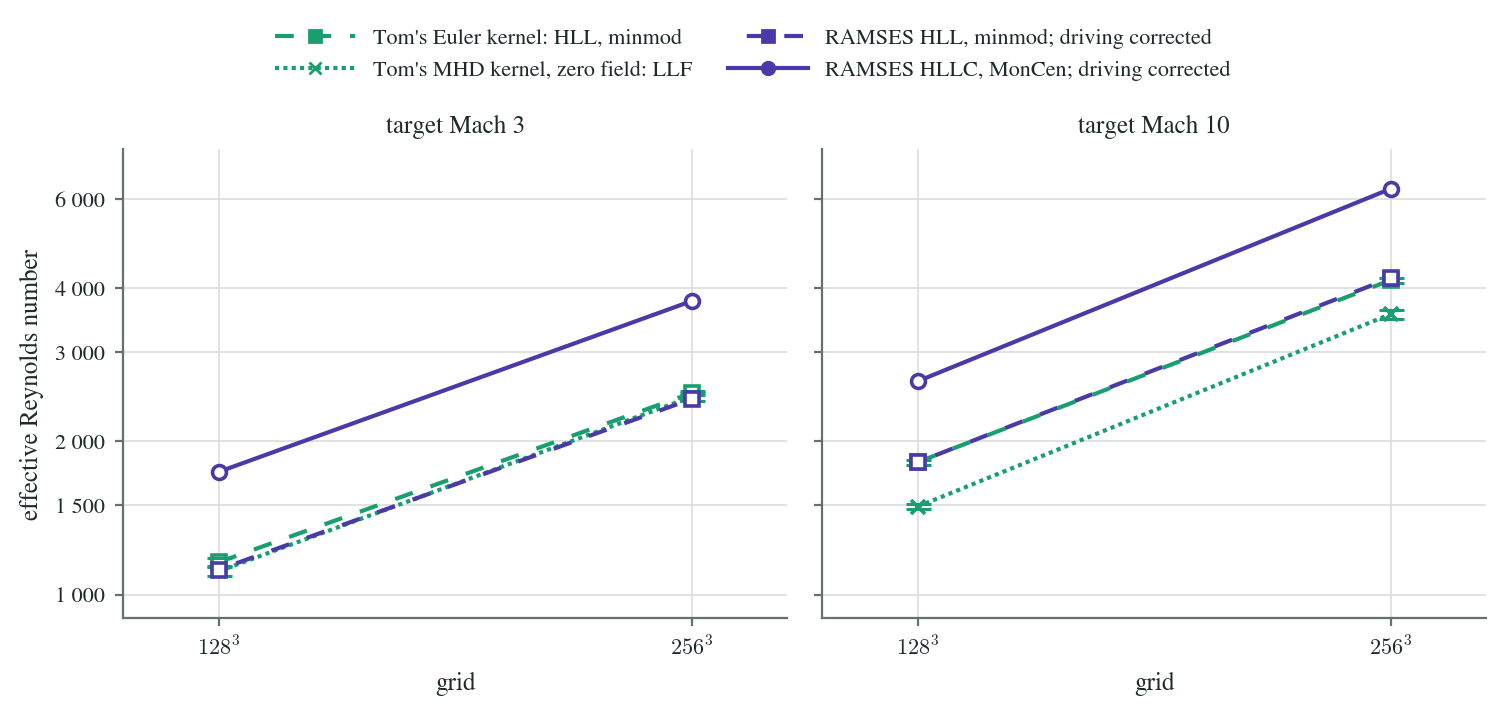
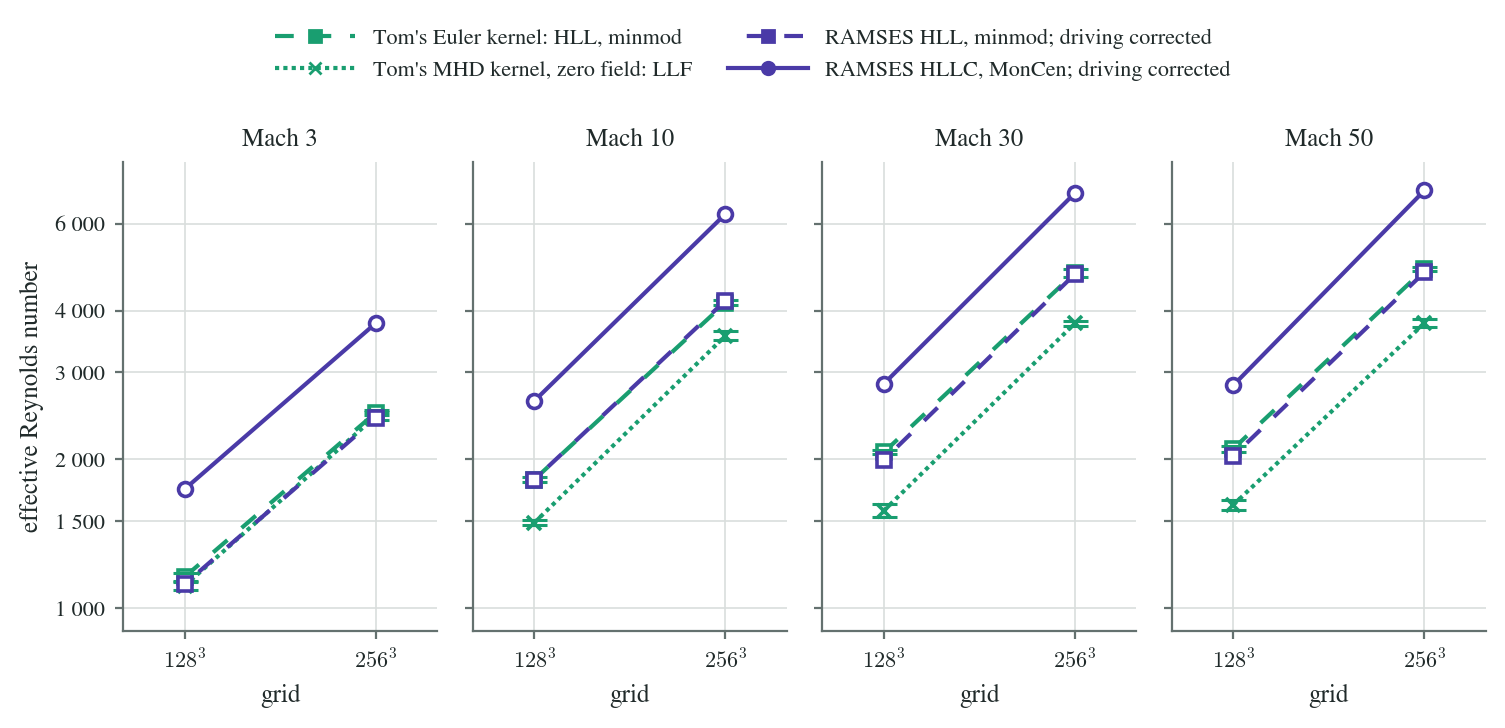
MHD notebook: turbulence at Mach 30 and 50
The Turbulence page now covers four Mach numbers (60 runs), the reverse
test of RAMSES's projection, and the density floor at high Mach number.

diff --git a/mhd/turbulence.html b/mhd/turbulence.html
@@ -6,21 +6,23 @@
 <header class="masthead"><a class="brand" href="../research.html"><span class="brand-mark">∿</span><span>MHD <strong>FIELD NOTES</strong></span></a><div class="masthead-meta"><span class="live-dot"></span>RESEARCH NOTEBOOK <span class="separator">/</span> DRIVEN TURBULENCE</div></header>
 <nav class="test-nav" aria-label="Pages"><a href="../research.html"><span>←</span>Research</a><a href="index.html"><span>01</span>Paper figures</a><a href="sweep-plan.html"><span>02</span>Sweep status</a><a href="turbulence.html" aria-current="page"><span>03</span>Turbulence</a><a href="orszag-tang.html"><span>04</span>Orszag–Tang</a><a href="hydro-decay.html"><span>05</span>Hydro decay</a><a href="isothermal-decay.html"><span>06</span>Prepared decay</a><a href="acoustic-wave.html"><span>07</span>Acoustic check</a><a href="entropy-wave.html"><span>08</span>Entropy wave</a></nav>
 <main id="main">
-<div class="page-heading"><div><div class="eyebrow"><span>03 · Driven turbulence</span><span class="badge">32 runs</span></div>
+<div class="page-heading"><div><div class="eyebrow"><span>03 · Driven turbulence</span><span class="badge">60 runs</span></div>
 <h1>Driven turbulence: the pilot</h1>
 <p>Hydrodynamic turbulence in a periodic box, stirred until it is statistically steady, in Tom Abel's GPU kernels and in RAMSES with one definition of the
-stirring. A first look: two Mach numbers, two grids. It also found a fault in RAMSES's driving, which is why RAMSES appears twice.</p></div>
+stirring. A first look: 4 Mach numbers, 2 grids. It also found a fault in RAMSES's driving, which is why RAMSES appears twice at the lower two
+Mach numbers.</p></div>
 <a class="method-link" href="files/sherlock_turb/README.md">Set-up and tests <span>↗</span></a></div>
-<div class="chips"><span class="chip">32 runs</span><span class="chip">Mach 3 and 10</span><span class="chip">128³ and 256³</span><span class="chip">6 set-ups in 2 codes</span><span class="chip">10 driving times each</span><span class="chip">solenoidal driving</span></div>
+<div class="chips"><span class="chip">60 runs</span><span class="chip">Mach 3, 10, 30 and 50</span><span class="chip">128³ and 256³</span><span class="chip">7 set-ups in 2 codes</span><span class="chip">10 driving times each</span><span class="chip">solenoidal driving</span></div>
 <div class="card"><h3>How to read this page</h3>
-<p>Units: box length 1, mean density 1, sound speed 1. The gas is nearly isothermal (γ − 1 = 10⁻⁵, no cooling), so the total energy rises at exactly the rate the
+<p>Units: box length 1, mean density 1, sound speed 1. The gas is nearly isothermal (γ − 1 = 10⁻⁵, and 10⁻⁶ at Mach 30 and 50; no cooling), so the total energy rises at exactly the rate the
 driving puts it in: that slope is the power, and in a steady state the dissipation rate. The driving is a random acceleration on the largest scales (1 &lt; k &lt; 3) with
 memory time T = L/(2 M c<sub>s</sub>), scaled to the same strength at every moment in both codes. The strength was found once for each target Mach number and is used
 unchanged by every run, so a run is named by its target and the Mach number it reaches is a result.</p>
 <p>Colour is the code: green Tom's kernels, purple RAMSES. Line style is the set-up. <strong>The paler purple is RAMSES as released</strong>: its projection of the driving
 takes the direction of a wave vector from the absolute values of its components, so a fifth of the power of its "solenoidal" force is compressive (measured from the force
-fields it saves). The full purple has those three lines corrected and is the RAMSES to compare with Tom's kernels. His Float16 Euler kernel is not here: it stops in its first
+fields it saves). The full purple has those three lines corrected and is the RAMSES to compare with Tom's kernels; at Mach 30 and 50 only the corrected RAMSES ran.
+The green diamonds of figure 2 are the reverse test: Tom's Euler kernel driven with RAMSES's released projection. His Float16 Euler kernel is not here: it stops in its first
 steps, because it stores the energy flux in half precision and this gas has an internal energy of 10⁵.</p>
-<p>Density images use the notebook's map for gas quantities (teal, dark where the density is low), as on the other pages.</p></div><article class="card paper-fig" id="turb-mach-time"><div class="fig-head"><span class="fig-no">1</span><h3>Steady state</h3></div><div class="fig-pair"><figure class="ours" style="flex-basis:604px;max-width:756px"><a class="image-link" href="media/turb/turb-mach-time.png?v=1791703203"><img src="media/turb/turb-mach-time.png?v=1791703203" alt="Steady state" loading="lazy"></a></figure></div><p>Rms Mach number (volume-weighted, with the sound speed of the gas at that time) against time in driving times T. Averages on this page are taken from 2 T on; the check is that the second half of that window agrees with the first.</p><p class="finding"><strong>In these runs:</strong> All 32 runs pass the check: the mean Mach number of the second half of the averaging window differs from the first half&#x27;s by 0.1 % to 2.6 %, and the Mach number wanders by 1.7 % to 4.3 % about its mean. The paler curves (RAMSES as released) run lower from the start.</p></article><article class="card paper-fig" id="turb-projection-gap"><div class="fig-head"><span class="fig-no">2</span><h3>What RAMSES&#x27;s projection does</h3></div><div class="fig-pair"><figure class="ours" style="flex-basis:602px;max-width:753px"><a class="image-link" href="media/turb/turb-projection-gap.png?v=1791703203"><img src="media/turb/turb-projection-gap.png?v=1791703203" alt="What RAMSES&#x27;s projection does" loading="lazy"></a></figure></div><p>Time-averaged Mach number and power taken up from the driving (the slope of the total energy), each relative to Tom&#x27;s Euler kernel at the same Mach number and grid (mean of its two seeds). Every run uses the same driving strength.</p><p class="finding"><strong>In these runs:</strong> RAMSES as released sits −5.5 % to −2.3 % in Mach number and −19 % to −13 % in power against Tom&#x27;s Euler kernel. With the projection corrected it is within −0.7 % to +0.6 % and −3 % to +5 %; two seeds of the Euler kernel differ by 2 % to 5 % in power. Tom&#x27;s MHD kernel with zero field: −1.0 % to +1.3 % and −3 % to +4 %.</p></article><article class="card paper-fig" id="turb-spectra"><div class="fig-head"><span class="fig-no">3</span><h3>Velocity spectra</h3></div><div class="fig-pair"><figure class="ours" style="flex-basis:600px;max-width:750px"><a class="image-link" href="media/turb/turb-spectra.png?v=1791703204"><img src="media/turb/turb-spectra.png?v=1791703204" alt="Velocity spectra" loading="lazy"></a></figure></div><p>Time-averaged velocity power spectra, multiplied by k² (flat for a field of shocks). Runs that share one driving only; Tom&#x27;s kernels are the mean of two seeds. The two set-ups that run the same scheme in two codes are dashed with shifted dashes: where they coincide the line alternates green and purple.</p><p class="finding"><strong>In these runs:</strong> On 256³, Mach 3: the two HLL codes differ by at most 2 % at any k ≥ 4; at k = 64 RAMSES HLLC holds 2.2 times and the MHD kernel (LLF) 0.51 times the power of its HLL counterpart; Mach 10: the two HLL codes differ by at most 2 % at any k ≥ 4; at k = 64 RAMSES HLLC holds 1.9 times and the MHD kernel (LLF) 0.48 times the power of its HLL counterpart.</p></article><article class="card paper-fig" id="turb-compressive-share"><div class="fig-head"><span class="fig-no">4</span><h3>Compressive share, scale by scale</h3></div><div class="fig-pair"><figure class="ours" style="flex-basis:599px;max-width:749px"><a class="image-link" href="media/turb/turb-compressive-share.png?v=1791703204"><img src="media/turb/turb-compressive-share.png?v=1791703204" alt="Compressive share, scale by scale" loading="lazy"></a></figure></div><p>The part of the velocity power at each wavenumber that is compressive (along k). The driving acts at 1 &lt; k &lt; 3 and is meant to be solenoidal.</p><p class="finding"><strong>In these runs:</strong> The released projection shows only where the driving acts: Mach 3: at k = 2, 0.13 and 0.13 as released against 0.11 and 0.11 corrected and 0.11 for Tom&#x27;s Euler kernel; Mach 10: at k = 2, 0.17 and 0.16 as released against 0.12 and 0.11 corrected and 0.13 for Tom&#x27;s Euler kernel. Past the driven band the released and corrected curves of each solver join, and what separates the curves is the solver.</p></article><article class="card paper-fig" id="turb-density-pdf"><div class="fig-head"><span class="fig-no">5</span><h3>Density distribution</h3></div><div class="fig-pair"><figure class="ours" style="flex-basis:600px;max-width:751px"><a class="image-link" href="media/turb/turb-density-pdf.png?v=1791703205"><img src="media/turb/turb-density-pdf.png?v=1791703205" alt="Density distribution" loading="lazy"></a></figure></div><p>Time-averaged distribution of s = ln(ρ/⟨ρ⟩) by volume on the finer grid.</p><p class="finding"><strong>In these runs:</strong> The width σ of the distribution of s gives b = √(exp σ² − 1)/Mach, about 1/3 for solenoidal driving in the literature. On 256³, Mach 3: b = 0.43 (Euler kernel), 0.42 (MHD kernel), 0.41 (RAMSES HLL), 0.41 (RAMSES HLLC), 0.45 (RAMSES HLL, released), 0.45 (RAMSES HLLC, released); Mach 10: b = 0.55 (Euler kernel), 0.50 (MHD kernel), 0.53 (RAMSES HLL), 0.46 (RAMSES HLLC), 0.57 (RAMSES HLL, released), 0.51 (RAMSES HLLC, released). From 128³ to 256³: Mach 3: 0.44 → 0.43 (Euler kernel), 0.41 → 0.41 (RAMSES HLLC); Mach 10: 0.63 → 0.55 (Euler kernel), 0.54 → 0.46 (RAMSES HLLC). Where it still moves with resolution it is not converged.</p></article><article class="card paper-fig" id="turb-dissipation"><div class="fig-head"><span class="fig-no">6</span><h3>Numerical dissipation</h3></div><div class="fig-pair"><figure class="ours" style="flex-basis:601px;max-width:752px"><a class="image-link" href="media/turb/turb-dissipation.png?v=1791703205"><img src="media/turb/turb-dissipation.png?v=1791703205" alt="Numerical dissipation" loading="lazy"></a></figure></div><p>Effective Reynolds number v L/ν, with ν the viscosity that would turn the measured power into heat through the velocity gradients the grid holds: ν = power / (⟨ρ|∇×v|²⟩ + 4/3 ⟨ρ(∇·v)²⟩). It grows with resolution; on one grid a larger value means sharper gradients for the same dissipation. Short bars: the single seeds.</p><p class="finding"><strong>In these runs:</strong> From 128³ to 256³. Mach 3: Euler kernel 1158 → 2489, RAMSES HLL 1119 → 2423, RAMSES HLLC 1742 → 3776 (1.6 times HLL), MHD kernel 1111 → 2448 (−2 % against the Euler kernel); Mach 10: Euler kernel 1821 → 4151, RAMSES HLL 1820 → 4192, RAMSES HLLC 2626 → 6278 (1.5 times HLL), MHD kernel 1489 → 3558 (−14 % against the Euler kernel).</p></article><article class="card paper-fig" id="turb-slices"><div class="fig-head"><span class="fig-no">7</span><h3>What it looks like</h3></div><div class="fig-pair"><figure class="ours" style="flex-basis:536px;max-width:671px"><a class="image-link" href="media/turb/turb-slices.png?v=1791703205"><img src="media/turb/turb-slices.png?v=1791703205" alt="What it looks like" loading="lazy"></a></figure></div><p>Density in the midplane at the end of each run (time 10 T) on the finer grid; light is dense, and each row has its own colour scale. The runs of a row have the same statistics of the driving but not the same random pattern (two codes, two random number generators; Tom&#x27;s two kernels share theirs, and so do RAMSES&#x27;s two solvers), so structures are not expected to match from code to code.</p></article><article class="card paper-fig" id="turb-runs"><div class="fig-head"><span class="fig-no">8</span><h3>Every run</h3></div><p>Averages over time ≥ 2 T. Power in units of ρ c<sub>s</sub>³/L. Cell updates per second: the whole GPU for Tom's kernels (single precision), one core for RAMSES (double precision).</p><div class="table-scroll"><table class="metrics-table sweep-text paper-table"><thead><tr><th>run</th><th>Mach</th><th>second half vs first</th><th>mass-weighted Mach</th><th>σ of ln ρ</th><th>power</th><th>effective Re</th><th>sound speed at end</th><th>lowest density</th><th>cell updates / s</th></tr></thead><tbody><tr><td>gpu-glm-M3-N128-s1</td><td>3.22</td><td>+1.1 %</td><td>2.96</td><td>1.044</td><td>32.7</td><td>1132</td><td>1.0003</td><td>3.0e-03</td><td>1.39e+09</td></tr><tr><td>gpu-glm-M3-N128-s2</td><td>3.18</td><td>−1.0 %</td><td>2.94</td><td>1.051</td><td>34.2</td><td>1090</td><td>1.0003</td><td>4.7e-03</td><td>1.38e+09</td></tr><tr><td>gpu-hydro-M3-N128-s1</td><td>3.18</td><td>−0.8 %</td><td>2.92</td><td>1.031</td><td>32.7</td><td>1179</td><td>1.0003</td><td>5.7e-03</td><td>3.53e+09</td></tr><tr><td>gpu-hydro-M3-N128-s2</td><td>3.17</td><td>−1.2 %</td><td>2.93</td><td>1.040</td><td>34.5</td><td>1136</td><td>1.0003</td><td>4.6e-03</td><td>3.53e+09</td></tr><tr><td>ramses-best-M3-N128-s1</td><td>3.07</td><td>−2.0 %</td><td>2.82</td><td>1.030</td><td>28.8</td><td>1767</td><td>1.0002</td><td>7.1e-03</td><td>4.59e+05 per core</td></tr><tr><td>ramses-matched-M3-N128-s1</td><td>3.07</td><td>+0.6 %</td><td>2.78</td><td>1.030</td><td>29.4</td><td>1150</td><td>1.0002</td><td>1.0e-02</td><td>3.78e+05 per core</td></tr><tr><td>ramsesfix-best-M3-N128-s1</td><td>3.19</td><td>+0.7 %</td><td>3.00</td><td>1.006</td><td>35.3</td><td>1742</td><td>1.0003</td><td>7.0e-03</td><td>4.99e+05 per core</td></tr><tr><td>ramsesfix-matched-M3-N128-s1</td><td>3.16</td><td>+1.1 %</td><td>2.92</td><td>1.025</td><td>34.5</td><td>1119</td><td>1.0003</td><td>5.9e-03</td><td>4.01e+05 per core</td></tr><tr><td>gpu-glm-M3-N256-s1</td><td>3.24</td><td>−1.5 %</td><td>2.98</td><td>1.024</td><td>32.9</td><td>2494</td><td>1.0003</td><td>4.5e-03</td><td>1.43e+09</td></tr><tr><td>gpu-glm-M3-N256-s2</td><td>3.21</td><td>−0.8 %</td><td>2.96</td><td>1.028</td><td>34.3</td><td>2401</td><td>1.0003</td><td>4.4e-03</td><td>1.43e+09</td></tr><tr><td>gpu-hydro-M3-N256-s1</td><td>3.24</td><td>−0.7 %</td><td>2.99</td><td>1.030</td><td>33.4</td><td>2513</td><td>1.0003</td><td>4.7e-03</td><td>4.30e+09</td></tr><tr><td>gpu-hydro-M3-N256-s2</td><td>3.25</td><td>+0.4 %</td><td>2.99</td><td>1.043</td><td>34.2</td><td>2465</td><td>1.0003</td><td>5.8e-03</td><td>4.32e+09</td></tr><tr><td>ramses-best-M3-N256-s1</td><td>3.10</td><td>−0.8 %</td><td>2.84</td><td>1.036</td><td>29.3</td><td>3816</td><td>1.0002</td><td>6.1e-03</td><td>4.46e+05 per core</td></tr><tr><td>ramses-matched-M3-N256-s1</td><td>3.07</td><td>+0.3 %</td><td>2.80</td><td>1.026</td><td>28.8</td><td>2414</td><td>1.0002</td><td>6.5e-03</td><td>5.71e+05 per core</td></tr><tr><td>ramsesfix-best-M3-N256-s1</td><td>3.23</td><td>+0.4 %</td><td>3.00</td><td>1.004</td><td>35.6</td><td>3776</td><td>1.0003</td><td>6.6e-03</td><td>4.41e+05 per core</td></tr><tr><td>ramsesfix-matched-M3-N256-s1</td><td>3.24</td><td>+0.8 %</td><td>3.00</td><td>1.011</td><td>35.3</td><td>2423</td><td>1.0003</td><td>8.7e-03</td><td>3.53e+05 per core</td></tr><tr><td>gpu-glm-M10-N128-s1</td><td>10.11</td><td>+2.1 %</td><td>9.68</td><td>1.996</td><td>1.2e+03</td><td>1506</td><td>1.0028</td><td>1.0e-06</td><td>1.39e+09</td></tr><tr><td>gpu-glm-M10-N128-s2</td><td>10.12</td><td>−1.5 %</td><td>9.77</td><td>1.942</td><td>1.26e+03</td><td>1471</td><td>1.0029</td><td>3.3e-06</td><td>1.39e+09</td></tr><tr><td>gpu-hydro-M10-N128-s1</td><td>10.19</td><td>−0.7 %</td><td>9.61</td><td>1.944</td><td>1.2e+03</td><td>1840</td><td>1.0028</td><td>2.1e-06</td><td>3.56e+09</td></tr><tr><td>gpu-hydro-M10-N128-s2</td><td>10.14</td><td>+0.1 %</td><td>9.56</td><td>1.929</td><td>1.24e+03</td><td>1801</td><td>1.0028</td><td>8.5e-06</td><td>3.55e+09</td></tr><tr><td>ramses-best-M10-N128-s1</td><td>9.84</td><td>−2.4 %</td><td>9.19</td><td>1.859</td><td>1.03e+03</td><td>2690</td><td>1.0024</td><td>1.2e-05</td><td>3.77e+05 per core</td></tr><tr><td>ramses-matched-M10-N128-s1</td><td>9.93</td><td>−2.2 %</td><td>9.09</td><td>1.927</td><td>1.02e+03</td><td>1837</td><td>1.0024</td><td>6.8e-06</td><td>4.28e+05 per core</td></tr><tr><td>ramsesfix-best-M10-N128-s1</td><td>10.10</td><td>+2.0 %</td><td>9.66</td><td>1.853</td><td>1.23e+03</td><td>2626</td><td>1.0028</td><td>1.7e-05</td><td>4.21e+05 per core</td></tr><tr><td>ramsesfix-matched-M10-N128-s1</td><td>10.10</td><td>+1.7 %</td><td>9.65</td><td>1.894</td><td>1.21e+03</td><td>1820</td><td>1.0028</td><td>1.5e-06</td><td>6.05e+05 per core</td></tr><tr><td>gpu-glm-M10-N256-s1</td><td>10.12</td><td>+1.6 %</td><td>9.71</td><td>1.839</td><td>1.21e+03</td><td>3633</td><td>1.0028</td><td>2.4e-06</td><td>1.43e+09</td></tr><tr><td>gpu-glm-M10-N256-s2</td><td>10.09</td><td>−0.2 %</td><td>9.61</td><td>1.784</td><td>1.25e+03</td><td>3484</td><td>1.0029</td><td>5.7e-06</td><td>1.44e+09</td></tr><tr><td>gpu-hydro-M10-N256-s1</td><td>10.25</td><td>+0.2 %</td><td>9.76</td><td>1.886</td><td>1.2e+03</td><td>4200</td><td>1.0028</td><td>1.1e-05</td><td>4.31e+09</td></tr><tr><td>gpu-hydro-M10-N256-s2</td><td>10.11</td><td>−2.4 %</td><td>9.51</td><td>1.848</td><td>1.24e+03</td><td>4101</td><td>1.0028</td><td>1.2e-05</td><td>4.31e+09</td></tr><tr><td>ramses-best-M10-N256-s1</td><td>9.75</td><td>−2.6 %</td><td>9.02</td><td>1.802</td><td>992</td><td>6199</td><td>1.0023</td><td>2.7e-05</td><td>5.73e+05 per core</td></tr><tr><td>ramses-matched-M10-N256-s1</td><td>9.83</td><td>−2.3 %</td><td>9.11</td><td>1.865</td><td>1.03e+03</td><td>4203</td><td>1.0024</td><td>2.5e-05</td><td>3.90e+05 per core</td></tr><tr><td>ramsesfix-best-M10-N256-s1</td><td>10.23</td><td>+1.6 %</td><td>9.68</td><td>1.774</td><td>1.25e+03</td><td>6278</td><td>1.0029</td><td>7.3e-06</td><td>5.27e+05 per core</td></tr><tr><td>ramsesfix-matched-M10-N256-s1</td><td>10.20</td><td>+2.5 %</td><td>9.71</td><td>1.843</td><td>1.19e+03</td><td>4192</td><td>1.0027</td><td>1.8e-05</td><td>4.39e+05 per core</td></tr></tbody></table></div></article></main>
-<footer><span>Drawn by scripts/turb_figures.py from turb_results/ (copied from Sherlock; sherlock_turb/README.md).</span><span>Built 2026-10-11 00:49</span></footer>
+<p>Density images use the notebook's map for gas quantities (teal, dark where the density is low), as on the other pages.</p></div><article class="card paper-fig" id="turb-mach-time"><div class="fig-head"><span class="fig-no">1</span><h3>Steady state</h3></div><div class="fig-pair"><figure class="ours" style="flex-basis:596px;max-width:745px"><a class="image-link" href="media/turb/turb-mach-time.png?v=1791769688"><img src="media/turb/turb-mach-time.png?v=1791769688" alt="Steady state" loading="lazy"></a></figure></div><p>Rms Mach number (volume-weighted, with the sound speed of the gas at that time) against time in driving times T. Averages on this page are taken from 2 T on; the check is that the second half of that window agrees with the first.</p><p class="finding"><strong>In these runs:</strong> All 60 runs pass the check: the mean Mach number of the second half of the averaging window differs from the first half&#x27;s by 0.0 % to 4.8 %, and the Mach number wanders by 1.6 % to 4.3 % about its mean. The paler curves (RAMSES as released) run lower from the start.</p></article><article class="card paper-fig" id="turb-projection-gap"><div class="fig-head"><span class="fig-no">2</span><h3>What RAMSES&#x27;s projection does</h3></div><div class="fig-pair"><figure class="ours" style="flex-basis:602px;max-width:753px"><a class="image-link" href="media/turb/turb-projection-gap.png?v=1791769688"><img src="media/turb/turb-projection-gap.png?v=1791769688" alt="What RAMSES&#x27;s projection does" loading="lazy"></a></figure></div><p>Time-averaged Mach number and power taken up from the driving (the slope of the total energy), each relative to Tom&#x27;s Euler kernel at the same Mach number and grid (mean of its two seeds). Every run of a Mach number uses the same driving strength.</p><p class="finding"><strong>In these runs:</strong> RAMSES as released sits −5.5 % to −2.3 % in Mach number and −19 % to −13 % in power against Tom&#x27;s Euler kernel. With the projection corrected it is within −2.2 % to +0.6 % and −3 % to +7 %; two seeds of the Euler kernel differ by 2 % to 9 % in power. Tom&#x27;s MHD kernel with zero field: −3.6 % to +1.3 % and −4 % to +4 %. The reverse test (diamonds): Tom&#x27;s Euler kernel driven with RAMSES&#x27;s released projection sits −4.3 % to −2.7 % and −19 % to −9 %, where released RAMSES sits. So the gap is the projection, not the solver.</p></article><article class="card paper-fig" id="turb-spectra"><div class="fig-head"><span class="fig-no">3</span><h3>Velocity spectra</h3></div><div class="fig-pair"><figure class="ours" style="flex-basis:600px;max-width:750px"><a class="image-link" href="media/turb/turb-spectra.png?v=1791769689"><img src="media/turb/turb-spectra.png?v=1791769689" alt="Velocity spectra" loading="lazy"></a></figure></div><p>Time-averaged velocity power spectra, multiplied by k² (flat for a field of shocks). Runs that share one driving only; Tom&#x27;s kernels are the mean of two seeds. The two set-ups that run the same scheme in two codes are dashed with shifted dashes: where they coincide the line alternates green and purple.</p><p class="finding"><strong>In these runs:</strong> On 256³, Mach 3: the two HLL codes differ by at most 2 % at any k ≥ 4; at k = 64 RAMSES HLLC holds 2.2 times and the MHD kernel (LLF) 0.51 times the power of its HLL counterpart; Mach 10: the two HLL codes differ by at most 2 % at any k ≥ 4; at k = 64 RAMSES HLLC holds 1.9 times and the MHD kernel (LLF) 0.48 times the power of its HLL counterpart; Mach 30: the two HLL codes differ by at most 5 % at any k ≥ 4; at k = 64 RAMSES HLLC holds 1.8 times and the MHD kernel (LLF) 0.46 times the power of its HLL counterpart; Mach 50: the two HLL codes differ by at most 5 % at any k ≥ 4; at k = 64 RAMSES HLLC holds 1.8 times and the MHD kernel (LLF) 0.46 times the power of its HLL counterpart.</p></article><article class="card paper-fig" id="turb-compressive-share"><div class="fig-head"><span class="fig-no">4</span><h3>Compressive share, scale by scale</h3></div><div class="fig-pair"><figure class="ours" style="flex-basis:599px;max-width:749px"><a class="image-link" href="media/turb/turb-compressive-share.png?v=1791769690"><img src="media/turb/turb-compressive-share.png?v=1791769690" alt="Compressive share, scale by scale" loading="lazy"></a></figure></div><p>The part of the velocity power at each wavenumber that is compressive (along k). The driving acts at 1 &lt; k &lt; 3 and is meant to be solenoidal.</p><p class="finding"><strong>In these runs:</strong> The released projection shows only where the driving acts: Mach 3: at k = 2, 0.13 and 0.13 as released against 0.11 and 0.11 corrected and 0.11 for Tom&#x27;s Euler kernel; Mach 10: at k = 2, 0.17 and 0.16 as released against 0.12 and 0.11 corrected and 0.13 for Tom&#x27;s Euler kernel. Past the driven band the released and corrected curves of each solver join, and what separates the curves is the solver.</p></article><article class="card paper-fig" id="turb-density-pdf"><div class="fig-head"><span class="fig-no">5</span><h3>Density distribution</h3></div><div class="fig-pair"><figure class="ours" style="flex-basis:600px;max-width:751px"><a class="image-link" href="media/turb/turb-density-pdf.png?v=1791769691"><img src="media/turb/turb-density-pdf.png?v=1791769691" alt="Density distribution" loading="lazy"></a></figure></div><p>Time-averaged distribution of s = ln(ρ/⟨ρ⟩) by volume on the finer grid. The vertical line is the density floor.</p><p class="finding"><strong>In these runs:</strong> The width σ of the distribution of s gives b = √(exp σ² − 1)/Mach, about 1/3 for solenoidal driving in the literature. On 256³, Mach 3: b = 0.43 (Euler kernel), 0.42 (MHD kernel), 0.41 (RAMSES HLL), 0.41 (RAMSES HLLC), 0.45 (RAMSES HLL, released), 0.45 (RAMSES HLLC, released); Mach 10: b = 0.55 (Euler kernel), 0.50 (MHD kernel), 0.53 (RAMSES HLL), 0.46 (RAMSES HLLC), 0.57 (RAMSES HLL, released), 0.51 (RAMSES HLLC, released). From 128³ to 256³: Mach 3: 0.44 → 0.43 (Euler kernel), 0.41 → 0.41 (RAMSES HLLC); Mach 10: 0.63 → 0.55 (Euler kernel), 0.54 → 0.46 (RAMSES HLLC). Where it still moves with resolution it is not converged. At Mach 30 and 50 the distribution runs into the density floor of 10⁻⁶ in every code (the spike at the left): up to 2.0 % of the cells sit there, and in RAMSES up to 0.25 % are at or below zero. The width is then set by the floor, so no b is given for these Mach numbers.</p></article><article class="card paper-fig" id="turb-dissipation"><div class="fig-head"><span class="fig-no">6</span><h3>Numerical dissipation</h3></div><div class="fig-pair"><figure class="ours" style="flex-basis:601px;max-width:752px"><a class="image-link" href="media/turb/turb-dissipation.png?v=1791769691"><img src="media/turb/turb-dissipation.png?v=1791769691" alt="Numerical dissipation" loading="lazy"></a></figure></div><p>Effective Reynolds number v L/ν, with ν the viscosity that would turn the measured power into heat through the velocity gradients the grid holds: ν = power / (⟨ρ|∇×v|²⟩ + 4/3 ⟨ρ(∇·v)²⟩). It grows with resolution; on one grid a larger value means sharper gradients for the same dissipation. Short bars: the single seeds.</p><p class="finding"><strong>In these runs:</strong> From 128³ to 256³. Mach 3: Euler kernel 1158 → 2489, RAMSES HLL 1119 → 2423, RAMSES HLLC 1742 → 3776 (1.6 times HLL), MHD kernel 1111 → 2448 (−2 % against the Euler kernel); Mach 10: Euler kernel 1821 → 4151, RAMSES HLL 1820 → 4192, RAMSES HLLC 2626 → 6278 (1.5 times HLL), MHD kernel 1489 → 3558 (−14 % against the Euler kernel); Mach 30: Euler kernel 2067 → 4775, RAMSES HLL 1996 → 4745, RAMSES HLLC 2844 → 6922 (1.5 times HLL), MHD kernel 1575 → 3773 (−21 % against the Euler kernel); Mach 50: Euler kernel 2104 → 4855, RAMSES HLL 2033 → 4787, RAMSES HLLC 2826 → 7006 (1.5 times HLL), MHD kernel 1618 → 3777 (−22 % against the Euler kernel).</p></article><article class="card paper-fig" id="turb-slices"><div class="fig-head"><span class="fig-no">7</span><h3>What it looks like</h3></div><div class="fig-pair"><figure class="ours" style="flex-basis:536px;max-width:670px"><a class="image-link" href="media/turb/turb-slices.png?v=1791769691"><img src="media/turb/turb-slices.png?v=1791769691" alt="What it looks like" loading="lazy"></a></figure></div><p>Density in the midplane at the end of each run (time 10 T) on the finer grid; light is dense, and each row has its own colour scale; cells below the density floor are drawn at it. The runs of a row have the same statistics of the driving but not the same random pattern (two codes, two random number generators; Tom&#x27;s two kernels share theirs, and so do RAMSES&#x27;s two solvers), so structures are not expected to match from code to code.</p></article><article class="card paper-fig" id="turb-runs"><div class="fig-head"><span class="fig-no">8</span><h3>Every run</h3></div><p>Averages over time ≥ 2 T. Power in units of ρ c<sub>s</sub>³/L. Cell updates per second: the whole GPU for Tom's kernels (single precision), one core for RAMSES (double precision).</p><div class="table-scroll"><table class="metrics-table sweep-text paper-table"><thead><tr><th>run</th><th>Mach</th><th>second half vs first</th><th>mass-weighted Mach</th><th>σ of ln ρ</th><th>power</th><th>effective Re</th><th>sound speed at end</th><th>lowest density</th><th>cells at the floor</th><th>cell updates / s</th></tr></thead><tbody><tr><td>gpu-glm-M3-N128-s1</td><td>3.22</td><td>+1.1 %</td><td>2.96</td><td>1.044</td><td>32.7</td><td>1132</td><td>1.0003</td><td>3.0e-03</td><td>0</td><td>1.39e+09</td></tr><tr><td>gpu-glm-M3-N128-s2</td><td>3.18</td><td>−1.0 %</td><td>2.94</td><td>1.051</td><td>34.2</td><td>1090</td><td>1.0003</td><td>4.7e-03</td><td>0</td><td>1.38e+09</td></tr><tr><td>gpu-hydro-M3-N128-s1</td><td>3.18</td><td>−0.8 %</td><td>2.92</td><td>1.031</td><td>32.7</td><td>1179</td><td>1.0003</td><td>5.7e-03</td><td>0</td><td>3.53e+09</td></tr><tr><td>gpu-hydro-M3-N128-s2</td><td>3.17</td><td>−1.2 %</td><td>2.93</td><td>1.040</td><td>34.5</td><td>1136</td><td>1.0003</td><td>4.6e-03</td><td>0</td><td>3.53e+09</td></tr><tr><td>gpu-hydro_ramsesproj-M3-N128-s1</td><td>3.07</td><td>+0.0 %</td><td>2.79</td><td>1.066</td><td>30.4</td><td>1137</td><td>1.0002</td><td>3.4e-03</td><td>0</td><td>3.62e+09</td></tr><tr><td>gpu-hydro_ramsesproj-M3-N128-s2</td><td>3.08</td><td>+1.5 %</td><td>2.82</td><td>1.036</td><td>28.7</td><td>1171</td><td>1.0002</td><td>5.2e-03</td><td>0</td><td>3.57e+09</td></tr><tr><td>ramses-best-M3-N128-s1</td><td>3.07</td><td>−2.0 %</td><td>2.82</td><td>1.030</td><td>28.8</td><td>1767</td><td>1.0002</td><td>7.1e-03</td><td>0</td><td>4.59e+05 per core</td></tr><tr><td>ramses-matched-M3-N128-s1</td><td>3.07</td><td>+0.6 %</td><td>2.78</td><td>1.030</td><td>29.4</td><td>1150</td><td>1.0002</td><td>1.0e-02</td><td>0</td><td>3.78e+05 per core</td></tr><tr><td>ramsesfix-best-M3-N128-s1</td><td>3.19</td><td>+0.7 %</td><td>3.00</td><td>1.006</td><td>35.3</td><td>1742</td><td>1.0003</td><td>7.0e-03</td><td>0</td><td>4.99e+05 per core</td></tr><tr><td>ramsesfix-matched-M3-N128-s1</td><td>3.16</td><td>+1.1 %</td><td>2.92</td><td>1.025</td><td>34.5</td><td>1119</td><td>1.0003</td><td>5.9e-03</td><td>0</td><td>4.01e+05 per core</td></tr><tr><td>gpu-glm-M3-N256-s1</td><td>3.24</td><td>−1.5 %</td><td>2.98</td><td>1.024</td><td>32.9</td><td>2494</td><td>1.0003</td><td>4.5e-03</td><td>0</td><td>1.43e+09</td></tr><tr><td>gpu-glm-M3-N256-s2</td><td>3.21</td><td>−0.8 %</td><td>2.96</td><td>1.028</td><td>34.3</td><td>2401</td><td>1.0003</td><td>4.4e-03</td><td>0</td><td>1.43e+09</td></tr><tr><td>gpu-hydro-M3-N256-s1</td><td>3.24</td><td>−0.7 %</td><td>2.99</td><td>1.030</td><td>33.4</td><td>2513</td><td>1.0003</td><td>4.7e-03</td><td>0</td><td>4.30e+09</td></tr><tr><td>gpu-hydro-M3-N256-s2</td><td>3.25</td><td>+0.4 %</td><td>2.99</td><td>1.043</td><td>34.2</td><td>2465</td><td>1.0003</td><td>5.8e-03</td><td>0</td><td>4.32e+09</td></tr><tr><td>ramses-best-M3-N256-s1</td><td>3.10</td><td>−0.8 %</td><td>2.84</td><td>1.036</td><td>29.3</td><td>3816</td><td>1.0002</td><td>6.1e-03</td><td>0</td><td>4.46e+05 per core</td></tr><tr><td>ramses-matched-M3-N256-s1</td><td>3.07</td><td>+0.3 %</td><td>2.80</td><td>1.026</td><td>28.8</td><td>2414</td><td>1.0002</td><td>6.5e-03</td><td>0</td><td>5.71e+05 per core</td></tr><tr><td>ramsesfix-best-M3-N256-s1</td><td>3.23</td><td>+0.4 %</td><td>3.00</td><td>1.004</td><td>35.6</td><td>3776</td><td>1.0003</td><td>6.6e-03</td><td>0</td><td>4.41e+05 per core</td></tr><tr><td>ramsesfix-matched-M3-N256-s1</td><td>3.24</td><td>+0.8 %</td><td>3.00</td><td>1.011</td><td>35.3</td><td>2423</td><td>1.0003</td><td>8.7e-03</td><td>0</td><td>3.53e+05 per core</td></tr><tr><td>gpu-glm-M10-N128-s1</td><td>10.11</td><td>+2.1 %</td><td>9.68</td><td>1.996</td><td>1.2e+03</td><td>1506</td><td>1.0028</td><td>1.0e-06</td><td>0.00 %</td><td>1.39e+09</td></tr><tr><td>gpu-glm-M10-N128-s2</td><td>10.12</td><td>−1.5 %</td><td>9.77</td><td>1.942</td><td>1.26e+03</td><td>1471</td><td>1.0029</td><td>3.3e-06</td><td>0</td><td>1.39e+09</td></tr><tr><td>gpu-hydro-M10-N128-s1</td><td>10.19</td><td>−0.7 %</td><td>9.61</td><td>1.944</td><td>1.2e+03</td><td>1840</td><td>1.0028</td><td>2.1e-06</td><td>0</td><td>3.56e+09</td></tr><tr><td>gpu-hydro-M10-N128-s2</td><td>10.14</td><td>+0.1 %</td><td>9.56</td><td>1.929</td><td>1.24e+03</td><td>1801</td><td>1.0028</td><td>8.5e-06</td><td>0</td><td>3.55e+09</td></tr><tr><td>gpu-hydro_ramsesproj-M10-N128-s1</td><td>9.89</td><td>+1.9 %</td><td>9.43</td><td>1.947</td><td>1.11e+03</td><td>1845</td><td>1.0025</td><td>6.5e-06</td><td>0</td><td>3.56e+09</td></tr><tr><td>gpu-hydro_ramsesproj-M10-N128-s2</td><td>9.73</td><td>−3.5 %</td><td>9.05</td><td>1.932</td><td>981</td><td>1898</td><td>1.0024</td><td>1.7e-05</td><td>0</td><td>3.55e+09</td></tr><tr><td>ramses-best-M10-N128-s1</td><td>9.84</td><td>−2.4 %</td><td>9.19</td><td>1.859</td><td>1.03e+03</td><td>2690</td><td>1.0024</td><td>1.2e-05</td><td>0</td><td>3.77e+05 per core</td></tr><tr><td>ramses-matched-M10-N128-s1</td><td>9.93</td><td>−2.2 %</td><td>9.09</td><td>1.927</td><td>1.02e+03</td><td>1837</td><td>1.0024</td><td>6.8e-06</td><td>0</td><td>4.28e+05 per core</td></tr><tr><td>ramsesfix-best-M10-N128-s1</td><td>10.10</td><td>+2.0 %</td><td>9.66</td><td>1.853</td><td>1.23e+03</td><td>2626</td><td>1.0028</td><td>1.7e-05</td><td>0</td><td>4.21e+05 per core</td></tr><tr><td>ramsesfix-matched-M10-N128-s1</td><td>10.10</td><td>+1.7 %</td><td>9.65</td><td>1.894</td><td>1.21e+03</td><td>1820</td><td>1.0028</td><td>1.5e-06</td><td>0</td><td>6.05e+05 per core</td></tr><tr><td>gpu-glm-M10-N256-s1</td><td>10.12</td><td>+1.6 %</td><td>9.71</td><td>1.839</td><td>1.21e+03</td><td>3633</td><td>1.0028</td><td>2.4e-06</td><td>0</td><td>1.43e+09</td></tr><tr><td>gpu-glm-M10-N256-s2</td><td>10.09</td><td>−0.2 %</td><td>9.61</td><td>1.784</td><td>1.25e+03</td><td>3484</td><td>1.0029</td><td>5.7e-06</td><td>0</td><td>1.44e+09</td></tr><tr><td>gpu-hydro-M10-N256-s1</td><td>10.25</td><td>+0.2 %</td><td>9.76</td><td>1.886</td><td>1.2e+03</td><td>4200</td><td>1.0028</td><td>1.1e-05</td><td>0</td><td>4.31e+09</td></tr><tr><td>gpu-hydro-M10-N256-s2</td><td>10.11</td><td>−2.4 %</td><td>9.51</td><td>1.848</td><td>1.24e+03</td><td>4101</td><td>1.0028</td><td>1.2e-05</td><td>0</td><td>4.31e+09</td></tr><tr><td>ramses-best-M10-N256-s1</td><td>9.75</td><td>−2.6 %</td><td>9.02</td><td>1.802</td><td>992</td><td>6199</td><td>1.0023</td><td>2.7e-05</td><td>0</td><td>5.73e+05 per core</td></tr><tr><td>ramses-matched-M10-N256-s1</td><td>9.83</td><td>−2.3 %</td><td>9.11</td><td>1.865</td><td>1.03e+03</td><td>4203</td><td>1.0024</td><td>2.5e-05</td><td>0</td><td>3.90e+05 per core</td></tr><tr><td>ramsesfix-best-M10-N256-s1</td><td>10.23</td><td>+1.6 %</td><td>9.68</td><td>1.774</td><td>1.25e+03</td><td>6278</td><td>1.0029</td><td>7.3e-06</td><td>0</td><td>5.27e+05 per core</td></tr><tr><td>ramsesfix-matched-M10-N256-s1</td><td>10.20</td><td>+2.5 %</td><td>9.71</td><td>1.843</td><td>1.19e+03</td><td>4192</td><td>1.0027</td><td>1.8e-05</td><td>0</td><td>4.39e+05 per core</td></tr><tr><td>gpu-glm-M30-N128-s1</td><td>29.72</td><td>+0.6 %</td><td>30.04</td><td>2.721</td><td>3.11e+04</td><td>1621</td><td>1.0023</td><td>1.0e-06</td><td>0.20 %</td><td>1.40e+09</td></tr><tr><td>gpu-glm-M30-N128-s2</td><td>29.11</td><td>−2.9 %</td><td>28.47</td><td>2.757</td><td>3.09e+04</td><td>1529</td><td>1.0023</td><td>1.0e-06</td><td>0.17 %</td><td>1.39e+09</td></tr><tr><td>gpu-hydro-M30-N128-s1</td><td>29.91</td><td>−0.5 %</td><td>28.56</td><td>2.662</td><td>2.91e+04</td><td>2086</td><td>1.0022</td><td>1.0e-06</td><td>0.34 %</td><td>3.65e+09</td></tr><tr><td>gpu-hydro-M30-N128-s2</td><td>30.46</td><td>−0.4 %</td><td>29.02</td><td>2.530</td><td>3.18e+04</td><td>2049</td><td>1.0023</td><td>1.0e-06</td><td>0.02 %</td><td>3.60e+09</td></tr><tr><td>ramsesfix-best-M30-N128-s1</td><td>29.86</td><td>+2.1 %</td><td>28.77</td><td>2.620</td><td>3.16e+04</td><td>2844</td><td>1.0023</td><td>-1.6e-06</td><td>0.08 %</td><td>4.47e+05 per core</td></tr><tr><td>ramsesfix-matched-M30-N128-s1</td><td>29.83</td><td>+2.5 %</td><td>28.71</td><td>2.584</td><td>3.15e+04</td><td>1996</td><td>1.0023</td><td>-2.6e-06</td><td>0.19 %</td><td>4.76e+05 per core</td></tr><tr><td>gpu-glm-M30-N256-s1</td><td>29.50</td><td>+0.6 %</td><td>28.74</td><td>2.747</td><td>3.01e+04</td><td>3820</td><td>1.0022</td><td>1.0e-06</td><td>0.26 %</td><td>1.43e+09</td></tr><tr><td>gpu-glm-M30-N256-s2</td><td>29.29</td><td>−1.4 %</td><td>28.07</td><td>2.653</td><td>3.09e+04</td><td>3725</td><td>1.0023</td><td>1.0e-06</td><td>0.06 %</td><td>1.44e+09</td></tr><tr><td>gpu-hydro-M30-N256-s1</td><td>30.21</td><td>+3.2 %</td><td>29.35</td><td>2.793</td><td>3.04e+04</td><td>4861</td><td>1.0022</td><td>1.0e-06</td><td>0.35 %</td><td>4.31e+09</td></tr><tr><td>gpu-hydro-M30-N256-s2</td><td>30.00</td><td>−1.7 %</td><td>28.76</td><td>2.616</td><td>3.22e+04</td><td>4688</td><td>1.0023</td><td>1.0e-06</td><td>0.06 %</td><td>4.33e+09</td></tr><tr><td>ramsesfix-best-M30-N256-s1</td><td>29.43</td><td>+1.8 %</td><td>28.53</td><td>2.552</td><td>3.15e+04</td><td>6922</td><td>1.0023</td><td>-9.2e-07</td><td>0.11 %</td><td>4.45e+05 per core</td></tr><tr><td>ramsesfix-matched-M30-N256-s1</td><td>29.71</td><td>+4.5 %</td><td>28.62</td><td>2.684</td><td>3.18e+04</td><td>4745</td><td>1.0023</td><td>-1.5e-06</td><td>0.12 %</td><td>4.33e+05 per core</td></tr><tr><td>gpu-glm-M50-N128-s1</td><td>49.38</td><td>+1.7 %</td><td>49.59</td><td>2.860</td><td>1.4e+05</td><td>1653</td><td>1.0062</td><td>1.0e-06</td><td>0.34 %</td><td>1.40e+09</td></tr><tr><td>gpu-glm-M50-N128-s2</td><td>48.89</td><td>−1.9 %</td><td>47.66</td><td>2.698</td><td>1.41e+05</td><td>1584</td><td>1.0062</td><td>1.0e-06</td><td>0.16 %</td><td>1.39e+09</td></tr><tr><td>gpu-hydro-M50-N128-s1</td><td>49.94</td><td>+1.3 %</td><td>48.16</td><td>2.833</td><td>1.37e+05</td><td>2133</td><td>1.0062</td><td>1.0e-06</td><td>0.46 %</td><td>3.58e+09</td></tr><tr><td>gpu-hydro-M50-N128-s2</td><td>49.74</td><td>−4.8 %</td><td>47.20</td><td>2.595</td><td>1.43e+05</td><td>2074</td><td>1.0063</td><td>1.0e-06</td><td>0.08 %</td><td>3.58e+09</td></tr><tr><td>ramsesfix-best-M50-N128-s1</td><td>48.78</td><td>+1.7 %</td><td>47.37</td><td>2.779</td><td>1.46e+05</td><td>2826</td><td>1.0064</td><td>-2.0e-06</td><td>0.31 %</td><td>4.14e+05 per core</td></tr><tr><td>ramsesfix-matched-M50-N128-s1</td><td>49.34</td><td>+3.2 %</td><td>47.45</td><td>2.635</td><td>1.45e+05</td><td>2033</td><td>1.0062</td><td>-2.3e-06</td><td>0.41 %</td><td>4.55e+05 per core</td></tr><tr><td>gpu-glm-M50-N256-s1</td><td>49.34</td><td>+3.0 %</td><td>48.53</td><td>2.932</td><td>1.38e+05</td><td>3849</td><td>1.0061</td><td>1.0e-06</td><td>0.32 %</td><td>1.43e+09</td></tr><tr><td>gpu-glm-M50-N256-s2</td><td>48.11</td><td>−1.9 %</td><td>46.35</td><td>2.940</td><td>1.41e+05</td><td>3704</td><td>1.0062</td><td>1.0e-06</td><td>0.13 %</td><td>1.44e+09</td></tr><tr><td>gpu-hydro-M50-N256-s1</td><td>49.41</td><td>+0.0 %</td><td>47.41</td><td>3.019</td><td>1.38e+05</td><td>4894</td><td>1.0061</td><td>1.0e-06</td><td>0.46 %</td><td>4.32e+09</td></tr><tr><td>gpu-hydro-M50-N256-s2</td><td>49.30</td><td>−3.6 %</td><td>47.16</td><td>2.855</td><td>1.43e+05</td><td>4816</td><td>1.0062</td><td>1.0e-06</td><td>0.09 %</td><td>4.33e+09</td></tr><tr><td>ramsesfix-best-M50-N256-s1</td><td>48.82</td><td>+0.9 %</td><td>47.60</td><td>2.851</td><td>1.5e+05</td><td>7006</td><td>1.0065</td><td>-2.5e-06</td><td>0.25 %</td><td>6.78e+05 per core</td></tr><tr><td>ramsesfix-matched-M50-N256-s1</td><td>48.96</td><td>+1.8 %</td><td>47.93</td><td>2.971</td><td>1.45e+05</td><td>4787</td><td>1.0062</td><td>-3.2e-06</td><td>1.97 %</td><td>4.36e+05 per core</td></tr></tbody></table></div></article></main>
+<footer><span>Drawn by scripts/turb_figures.py from turb_results/ (copied from Sherlock; sherlock_turb/README.md).</span><span>Built 2026-10-11 18:48</span></footer>
 </body></html>
